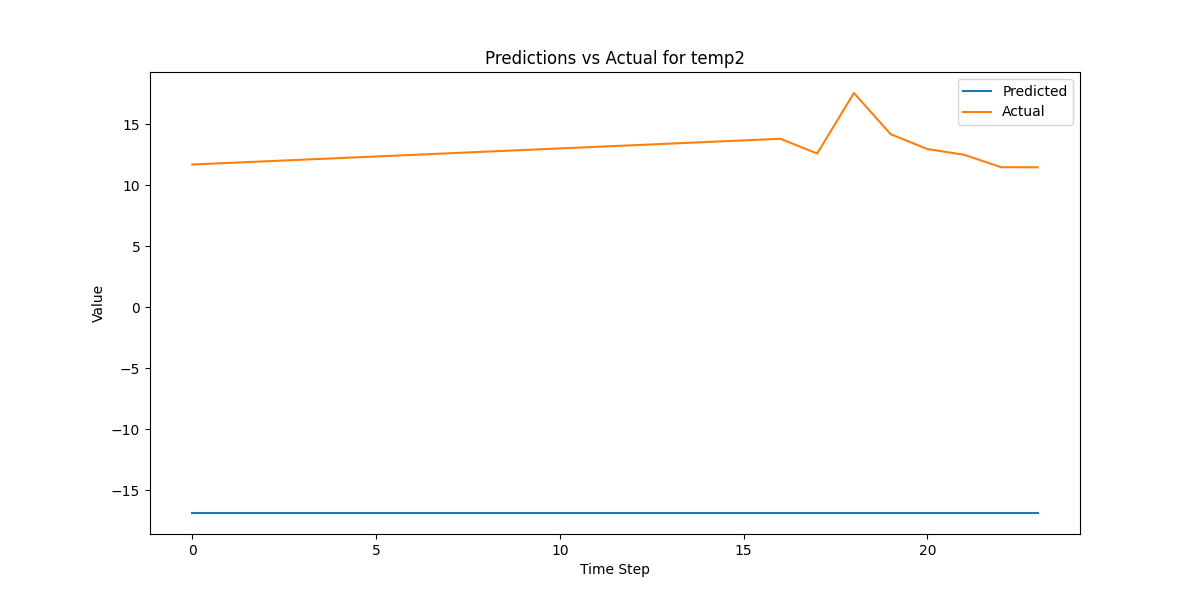
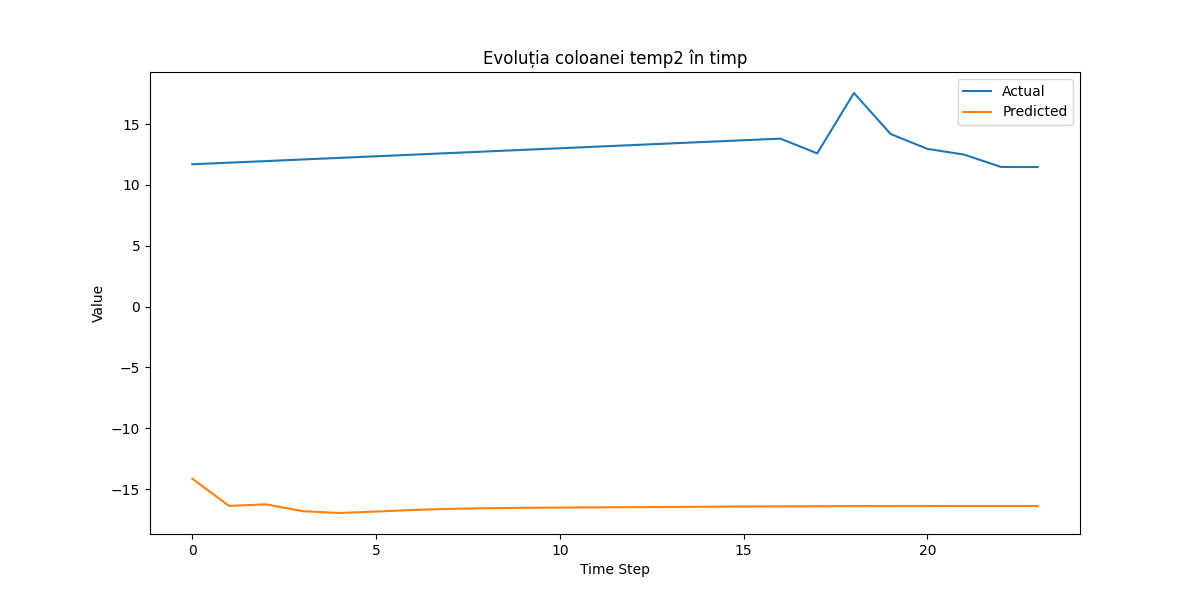
seq2seq_

diff --git a/SensorML/seq2seq.py b/SensorML/seq2seq.py
@@ -1,5 +1,4 @@
 import os
-
 import pandas as pd
 import numpy as np
 from sklearn.preprocessing import MinMaxScaler
@@ -8,13 +7,12 @@ import matplotlib.pyplot as plt
 
 from SensorML.read_csv import load_and_clean_data
 
-
 # Funcție pentru crearea secvențelor
 def create_sequences(data, input_sequence_length, output_sequence_length):
     X, y = [], []
     for i in range(len(data) - input_sequence_length - output_sequence_length + 1):
-        X.append(data[i:(i + input_sequence_length), 0])  # Modificare aici
-        y.append(data[(i + input_sequence_length):(i + input_sequence_length + output_sequence_length)])
+        X.append(data[i:(i + input_sequence_length), :])  # Modificare aici
+        y.append(data[(i + input_sequence_length):(i + input_sequence_length + output_sequence_length), :])  # Modificare aici
     return np.array(X), np.array(y)
 
 def function_Seq2Seq(df, column):
@@ -33,8 +31,8 @@ def function_Seq2Seq(df, column):
     X, y = create_sequences(data_normalized, input_sequence_length, output_sequence_length)
 
     # Dimensiunile input și output
-    input_dim = 24  # Modificare aici
-    output_dim = y.shape[2]
+    input_dim = 1  # Modificare aici, deoarece avem o singură caracteristică (coloană) în datele de intrare
+    output_dim = 1  # Modificare aici
 
     # Encoder
     encoder_inputs = tf.keras.layers.Input(shape=(input_sequence_length, input_dim))
@@ -97,7 +95,6 @@ def function_Seq2Seq(df, column):
 
     return image_path
 
-
 def return_pathSeq2Seq(column):
     directory = 'static/images'  # Setează directorul în care dorești să cauți
     # Parcurge fișierele din directorul specificat
@@ -107,12 +104,10 @@ def return_pathSeq2Seq(column):
 
     return None  # Întoarce None dacă nu se găsește fișierul
 
-
 if __name__ == '__main__':
     # Încărcarea și curățarea datelor
     file_path = 'SensorMLDataset.csv'
     df = load_and_clean_data(file_path)
-    numeric_columns = ['pres', 'temp1', 'umid', 'temp2', 'V450', 'B500', 'G550', 'Y570', 'O600', 'R650', 'temps1',
-                       'temps2', 'lumina']
+    numeric_columns = ['pres', 'temp1', 'umid', 'temp2', 'V450', 'B500', 'G550', 'Y570', 'O600', 'R650', 'temps1', 'temps2', 'lumina']
     for column in numeric_columns:
-        function_Seq2Seq(df,column)
+        function_Seq2Seq(df, column)
